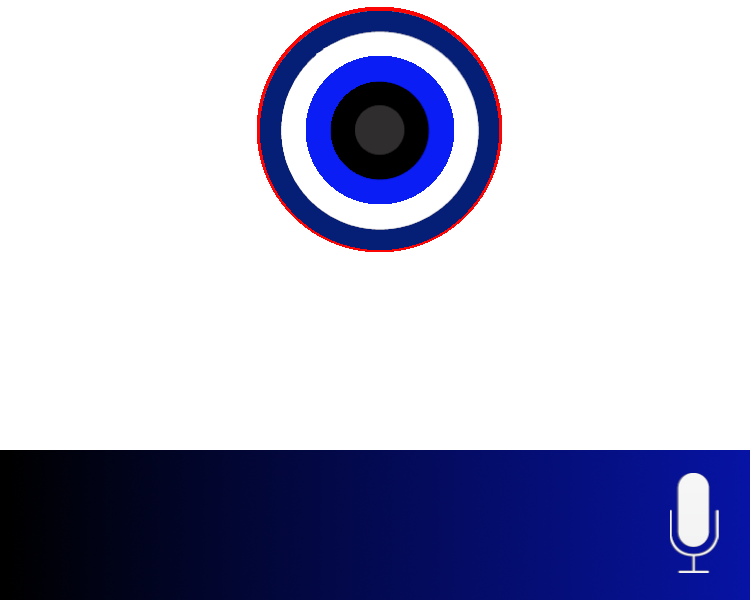
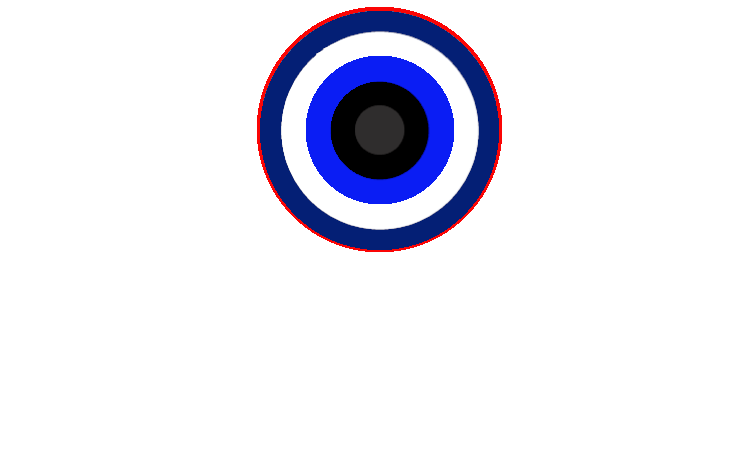
Modification de l'interface

diff --git a/main.py b/main.py
@@ -51,12 +51,16 @@ varSix = True
 #Pygame
 pygame.init()
 myfont = pygame.font.SysFont("arial", 15)
+myfont2 = pygame.font.SysFont("arial", 20)
 pygame.display.set_icon(pygame.image.load("Interface/icon.png"))
 fenetre = pygame.display.set_mode((750, 600))
 pygame.display.set_caption("SIX")
 fenetre.blit(pygame.image.load("Interface/FondInterfaceSix.png").convert(),(0,0))
+fenetre.blit(pygame.image.load("Interface/BarInterfaceSix.png").convert(),(0,450))
 labelSix = myfont.render(NomAssistant, 1, (0,0,0))
+labelUser = myfont2.render("User: ",1,(255,255,255))
 fenetre.blit(labelSix,(5, 300))
+fenetre.blit(labelUser,(5,500))
 pygame.display.update()
 #Partie Module logiciel
 def VisualStudio():
@@ -76,6 +80,21 @@ def speak(text):#Fonction de parole
     fenetre.blit(labelSix,(5, 300))
     pygame.display.update()
     print(texte)
+def takeCommand():#Fonction micro et reconaissance vocal
+    r=sr.Recognizer()
+    with sr.Microphone() as source:
+        audio=r.listen(source)
+        try:
+            Requette=r.recognize_google(audio,language='fr')
+            texte = str("User: "+Requette)
+            print(texte)
+            labelUser = myfont2.render(texte,1,(255,255,255))
+            fenetre.blit(pygame.image.load("Interface/BarInterfaceSix.png").convert(),(0,450))
+            fenetre.blit(labelUser,(5,500))
+            pygame.display.update()
+        except Exception as e:
+            return "None"
+        return Requette
 def speakNoInternet():#Fonctiion pas internet
     os.system("mpg123 " + "sons/speak1.mp3")
 def Resumer():#Fonction de resumer des actaulités et de la meteo
@@ -96,11 +115,11 @@ def Resumer():#Fonction de resumer des actaulités et de la meteo
     speak("La quatriéme et "+ Titre4+" .")
     speak("La derniére et "+ Titre5+".")
     speak("La metéo a votre lieu favori et "+ description1 )
-    speak("avec une température de "+Temparure1)
-    speak(" degrés et un taux d'humiditer de "+humiditer1+" pourcent")
+    speak("avec une température de "+Temparure1+"degrés")
+    speak("et un taux d'humiditer de "+humiditer1+" pourcent")
     speak("La metéo a votre lieu favori et "+ description2 )
-    speak("avec une température de "+Temparure2)
-    speak(" degrés et un taux d'humiditer de "+humiditer2+" pourcent")
+    speak("avec une température de "+Temparure2+"degrés")
+    speak("et un taux d'humiditer de "+humiditer2+" pourcent")
     speak("Voulez-vous que j'ouvre les lien des actualités ?")
     reponse = takeCommand()
     if "oui" in reponse:
@@ -196,17 +215,6 @@ def Arret(User,Genre):#Fonction quand l'uttilisateur coup l'assistant
         speak("Au revoir "+Genre+" "+User+" ,passez une bonne soirée")
     if hour>=22 and hour<=23:
         speak("Au revoir "+Genre+" "+User+" , passez une bonne nuit.")
-def takeCommand():#Fonction micro et reconaissance vocal
-    r=sr.Recognizer()
-    with sr.Microphone() as source:
-        audio=r.listen(source)
-        try:
-            Requette=r.recognize_google(audio,language='fr')
-            texte = str("User = "+Requette)
-            print(texte)
-        except Exception as e:
-            return "None"
-        return Requette
 def shutdown():#Fonction d'arrét de l'ordinateur
     subprocess.run("poweroff")
 def reboot():#Fonction de redemarage de l'ordinateur
@@ -246,7 +254,9 @@ def Meteo(nbVille):#Fonction de recuperation des donne de l'api openweather
         return current_temperature , current_humidiy , weather_description , ville
 def MeteoParole(nbVille):#Fonction météo avec parole
     Temperature,humiditer,description,ville = Meteo(nbVille)
-    speak("La météo à "+ville+ " ,et "+description +".Avec un taux d'humiditer de "+humiditer+" pourcent et une température de "+Temperature+" degrés")
+    speak("La météo à "+ville+ " ,et "+description+".")
+    speak("Avec un taux d'humiditer de "+humiditer+" pourcent.")
+    speak("Et une température de "+Temperature+" degrés")
 def Mute(Genre):
         screen = Tk()
         def anychar(event):
@@ -572,11 +582,11 @@ if internet == True :
         if "météo" in statement:
             speak("Ou desirez savoir la meteo "+GenreCourt+" ?")
             r= takeCommand()
-            if "maison" in r or "chez moi" in r :
-                MeteoParole(1)              
-            if "à mon lieu de travail" in r :
-                MeteoParole(2)
+            if "maison" in r or "chez moi" in r or "à mon domicile" in r :
+                MeteoParole(1)  
             if  "à mon lieu favori" in r  :
+                MeteoParole(2)            
+            if "à mon lieu de travail" in r :
                 MeteoParole(3)
             if "à mon lieu de vacances" in r :
                 MeteoParole(4)
@@ -712,8 +722,8 @@ if internet == True :
         if "traduire" in statement:
             Trad()
         if "ouvre tes paramètre" in statement :
+            speak("Ok j'ouvre mes paramètre")
             Setting()
-            speak("J'ai enregistrer tout vos modification")
             PrincipalUser =  str(Lecture("Config/Assistant/User1.txt"))
             SecondairUser =  str(Lecture("Config/Assistant/User2.txt"))
             TroisiemeUser =  str(Lecture("Config/Assistant/User3.txt"))
@@ -724,7 +734,7 @@ if internet == True :
             QuatriemeUserGenre =  str(Lecture("Config/Assistant/Genre4.txt"))
             NomAssistant =   str(Lecture("Config/Assistant/Nom.txt"))
             PrononceAssistant =   str(Lecture("Config/Assistant/NomPrononciation.txt"))
-            speak("Ok j'ouvre mes paramètre")
+            speak("J'ai enregistrer tout vos modification")
         if "raconter une blague" in statement or "raconte-moi une blague" in statement :
             nb = random.randint(1,10)
             if nb == 1 :
